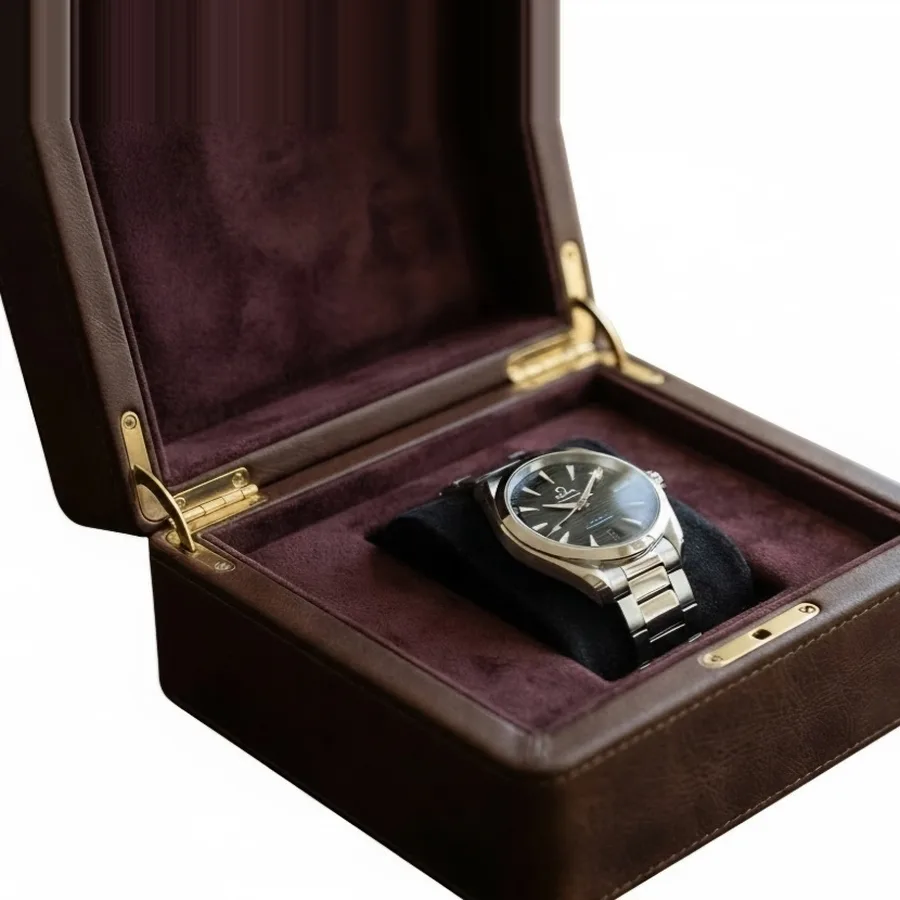
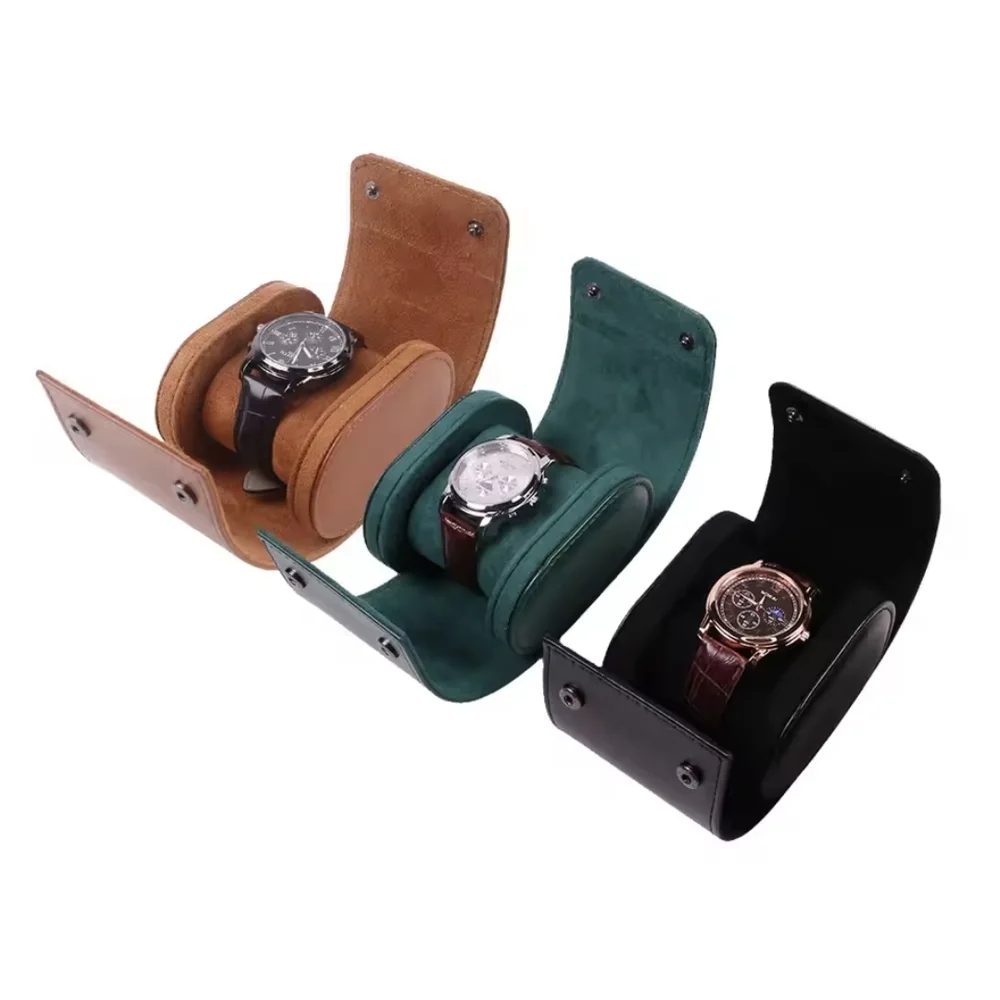
Leather watch box: new 3-colour photo and colour option (tan/green/black)
Claude-Session: https://claude.ai/code/session_01LTuZ3epqpniVsPEyySVRMk

diff --git a/product.html b/product.html
@@ -166,7 +166,7 @@
   </div>
 </footer>
 
-<script src="data.js?v=202610181200"></script>
+<script src="data.js?v=202610241200"></script>
 <script src="main.js?v=202610140813"></script>
 <script>
   const pid = qs('id');
@@ -203,9 +203,10 @@
         <span class="en-txt">${p.dEn}. This piece meets our strict quality standards and arrives with a warranty certificate and original packaging.</span>`}
       </p>
       ${p.strap ? '<div id="strapOpts"></div>' : ''}
+      ${p.boxColors ? '<div id="boxOpts"></div>' : ''}
       <div class="pd-actions">
         <button class="add-cart"><span class="he-txt">הוסף לעגלה</span><span class="en-txt">Add to Cart</span></button>
-        <button class="add-cart buy-now" id="pdBuyNow" style="background:var(--gold); color:#0D0D0D; border-color:var(--gold);" onclick="${p.strap ? 'strapBuy()' : `buyNow('${p.id}')`}"><span class="he-txt">קנה עכשיו</span><span class="en-txt">Buy Now</span></button>
+        <button class="add-cart buy-now" id="pdBuyNow" style="background:var(--gold); color:#0D0D0D; border-color:var(--gold);" onclick="${p.strap ? 'strapBuy()' : p.boxColors ? 'boxBuy()' : `buyNow('${p.id}')`}"><span class="he-txt">קנה עכשיו</span><span class="en-txt">Buy Now</span></button>
       </div>
       <div class="pd-facts">
         <div><b><span class="he-txt">מצב: </span><span class="en-txt">Condition: </span></b><span class="he-txt">${p.cond==='used'?'יד שנייה, נבדק ומאומת':'חדש, אריזה סגורה'}</span><span class="en-txt">${p.cond==='used'?'Pre-owned, inspected & authenticated':'New, sealed packaging'}</span></div>
@@ -333,6 +334,25 @@
     buyNow(p.id, { color: st.color.id, length: st.length.id, size: st.size, qty: st.qty });
   };
   if(p.strap) renderStrap();
+
+  // ===== Box colour option (leather watch box) =====
+  let boxColor = null;
+  function renderBox(){
+    const box = document.getElementById('boxOpts');
+    if(!box) return;
+    box.innerHTML = `
+      <div class="st-row">
+        <div class="st-label"><b>צבע:</b> <span>${boxColor ? boxColor.he : 'לא נבחר'}</span></div>
+        <div class="st-swatches">${p.boxColors.map(c => `<button type="button" class="st-sw ${boxColor&&boxColor.id===c.id?'active':''}" title="${c.he}" aria-label="${c.he}" onclick="pickBoxColor('${c.id}')"><i style="background:${c.hex};"></i></button>`).join('')}</div>
+      </div>
+      <div class="st-warn" id="stWarn"></div>`;
+  }
+  window.pickBoxColor = function(id){ boxColor = p.boxColors.find(c => c.id === id); renderBox(); };
+  window.boxBuy = function(){
+    if(!boxColor){ document.getElementById('stWarn').textContent = 'יש לבחור צבע'; return; }
+    buyNow(p.id, { color: boxColor.id });
+  };
+  if(p.boxColors) renderBox();
 </script>
 <script src="https://negishot.co.il/cdn/widget.php?code=NGS_F5225CBBB994"></script>
 <!-- Vercel Speed Insights -->

diff --git a/data.js b/data.js
@@ -140,7 +140,8 @@ const PRODUCTS = [
 
   // ---- Accessories & Boxes ----
   { id:"acc-1", cat:"accessories", name:{he:"קופסת עור לשעונים", en:"Leather Watch Box"}, price:200, cond:"new",
-    img:"images/products/acc-1.webp?v=20261023",
+    img:"images/products/acc-1.webp?v=20261024",
+    boxColors:[{id:"tan",he:"חום-קמל",en:"Tan",hex:"#b8763e"},{id:"green",he:"ירוק",en:"Green",hex:"#1f5c4d"},{id:"black",he:"שחור",en:"Black",hex:"#1a1a1a"}],
     dHe:"רפידה קטיפה פנימית · נעילה מגנטית · מקום לשעון אחד", dEn:"Velvet-lined interior · Magnetic clasp · Single watch slot" },
   { id:"acc-2", cat:"accessories", name:{he:"סט תצוגה לשלושה שעונים", en:"Triple Watch Display Set"}, price:200, cond:"new",
     img:"images/products/acc-2.webp?v=20261023",
@@ -221,6 +222,10 @@ const WHATSAPP_NUMBER = "97229999119";
 function whatsappOrder(productId, opts){
   const p = PRODUCTS.find(x => x.id === productId);
   let text = 'היי, אני מעוניין/ת לרכוש: ' + (p ? p.name.he : productId);
+  if(p && p.boxColors && opts && opts.color){
+    const bc = p.boxColors.find(x => x.id === opts.color);
+    if(bc) text += ', צבע ' + bc.he;
+  }
   if(p && p.strap && opts){
     const c = (p.colors || []).find(x => x.id === opts.color);
     const l = (p.lengths || []).find(x => x.id === opts.length);

diff --git a/api/checkout.js b/api/checkout.js
@@ -133,6 +133,11 @@ module.exports = async (req, res) => {
 
     let qty = 1;
     info = product.name.he;
+    if (product.boxColors) {
+      const bc = product.boxColors.find((c) => c.id === String((body.opts || {}).color || ''));
+      if (!bc) return res.status(400).json({ ok: false, error: 'bad_options' });
+      info = `${product.name.he}, ${bc.he}`;
+    }
     if (product.strap) {
       const r = resolveStrap(product, body.opts);
       if (r.error) return res.status(r.status).json({ ok: false, error: r.error });

diff --git a/gifts.html b/gifts.html
@@ -196,7 +196,7 @@
 </footer>
 
 <script src="main.js?v=202610140813"></script>
-<script src="data.js?v=202610181200"></script>
+<script src="data.js?v=202610241200"></script>
 <script src="gift-art.js?v=2"></script>
 <script src="gifts.js?v=4"></script>
 <script src="https://negishot.co.il/cdn/widget.php?code=NGS_F5225CBBB994"></script>

diff --git a/index.html b/index.html
@@ -871,7 +871,7 @@ html body #policy .wrap{ max-width:1000px !important; }
   </div>
 </footer>
 
-<script src="data.js?v=202610181200"></script>
+<script src="data.js?v=202610241200"></script>
 <script src="main.js?v=202610140813"></script>
 <script>
   // Homepage shows the curated "featured" products from the shared catalog (data.js)

diff --git a/contact.html b/contact.html
@@ -198,7 +198,7 @@
   </div>
 </footer>
 
-<script src="data.js?v=202610181200"></script>
+<script src="data.js?v=202610241200"></script>
 <script src="main.js?v=202610140813"></script>
 <script>
   document.getElementById('ctForm').addEventListener('submit', async function(e){

diff --git a/category.html b/category.html
@@ -181,7 +181,7 @@
   </div>
 </footer>
 
-<script src="data.js?v=202610181200"></script>
+<script src="data.js?v=202610241200"></script>
 <script src="main.js?v=202610140813"></script>
 <script>
   const catKey = qs('cat') || 'men';
